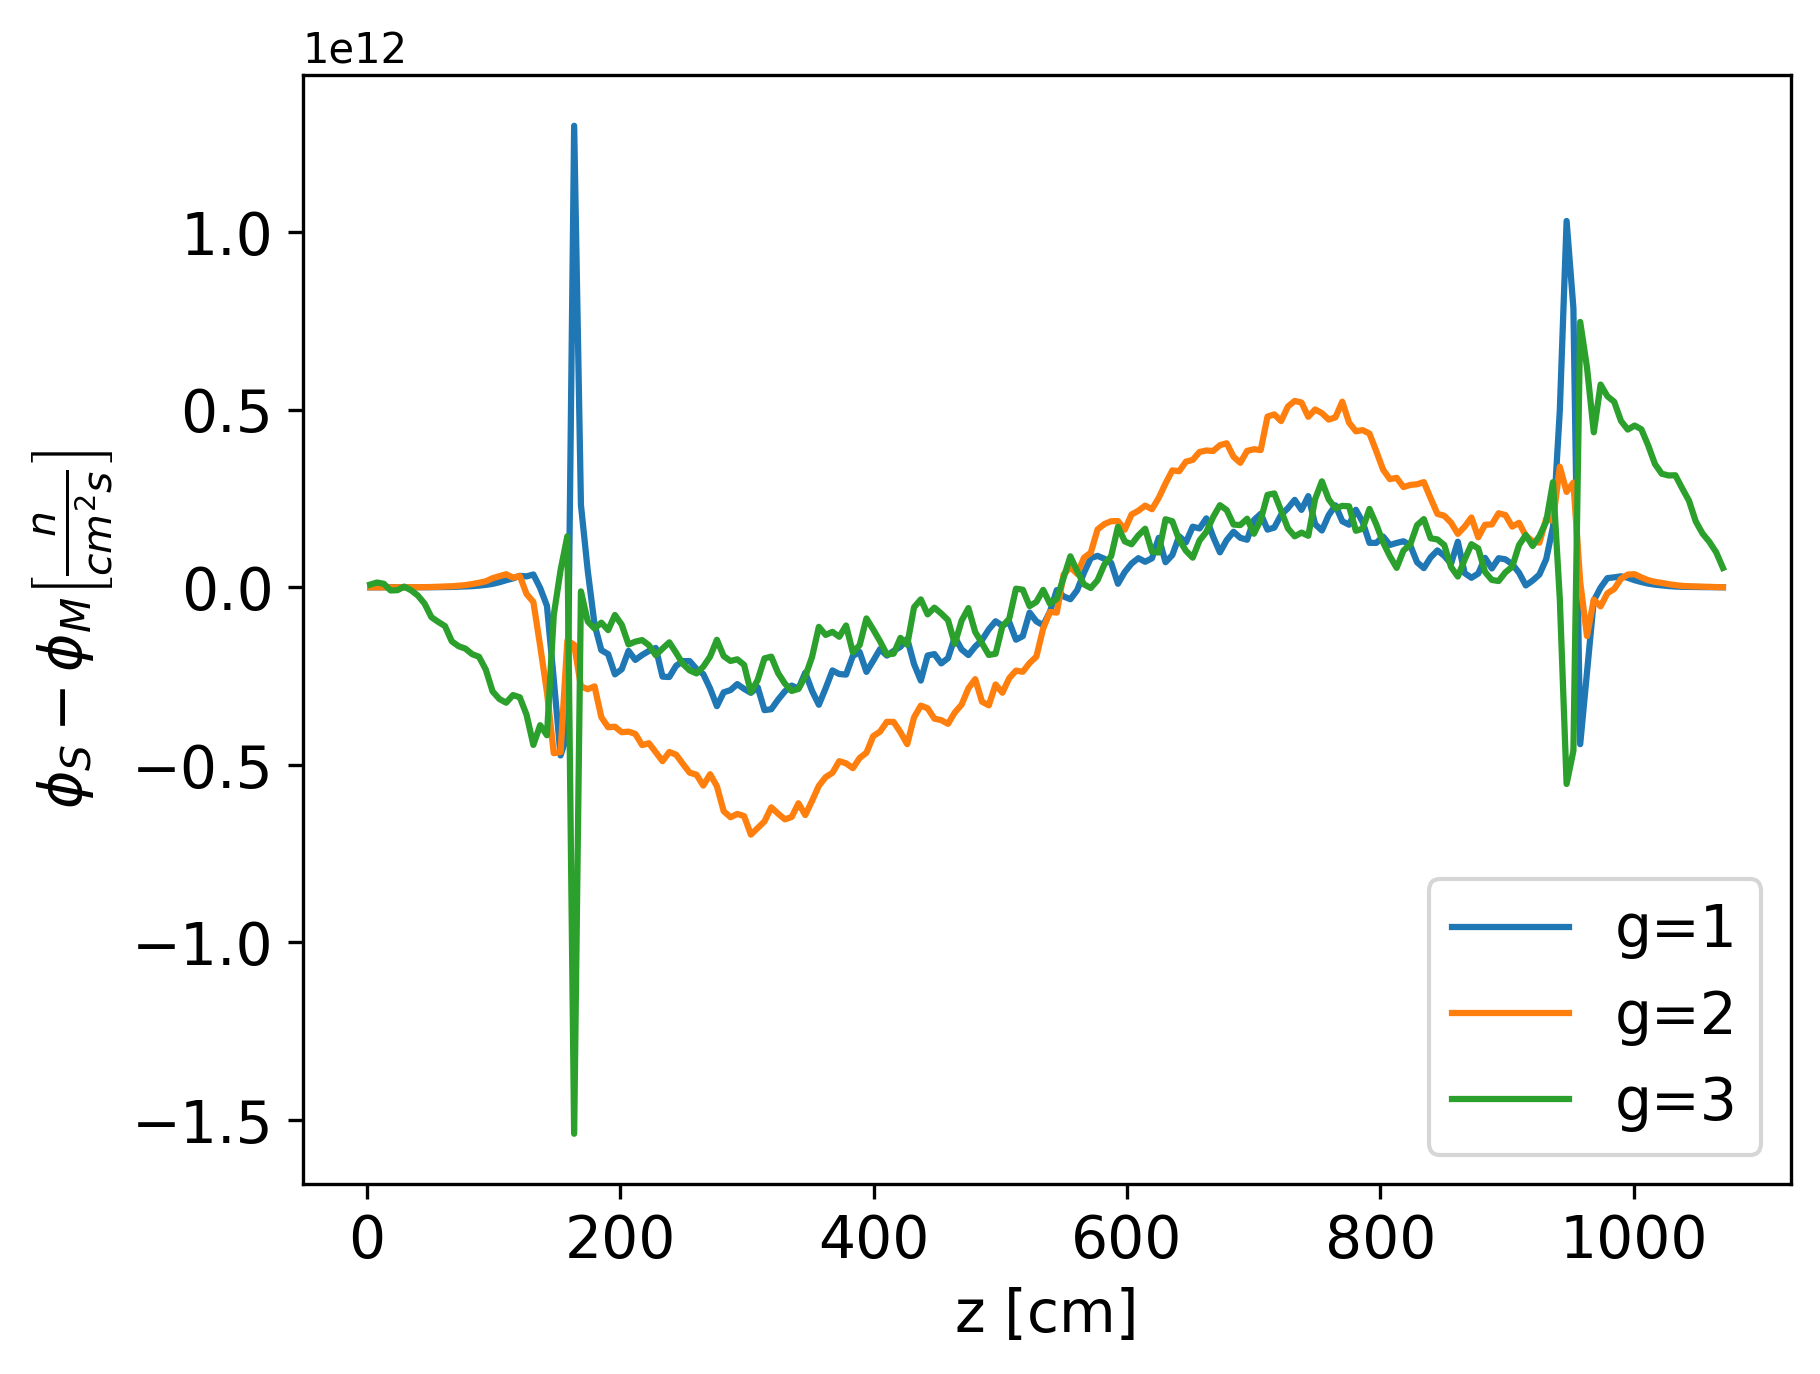
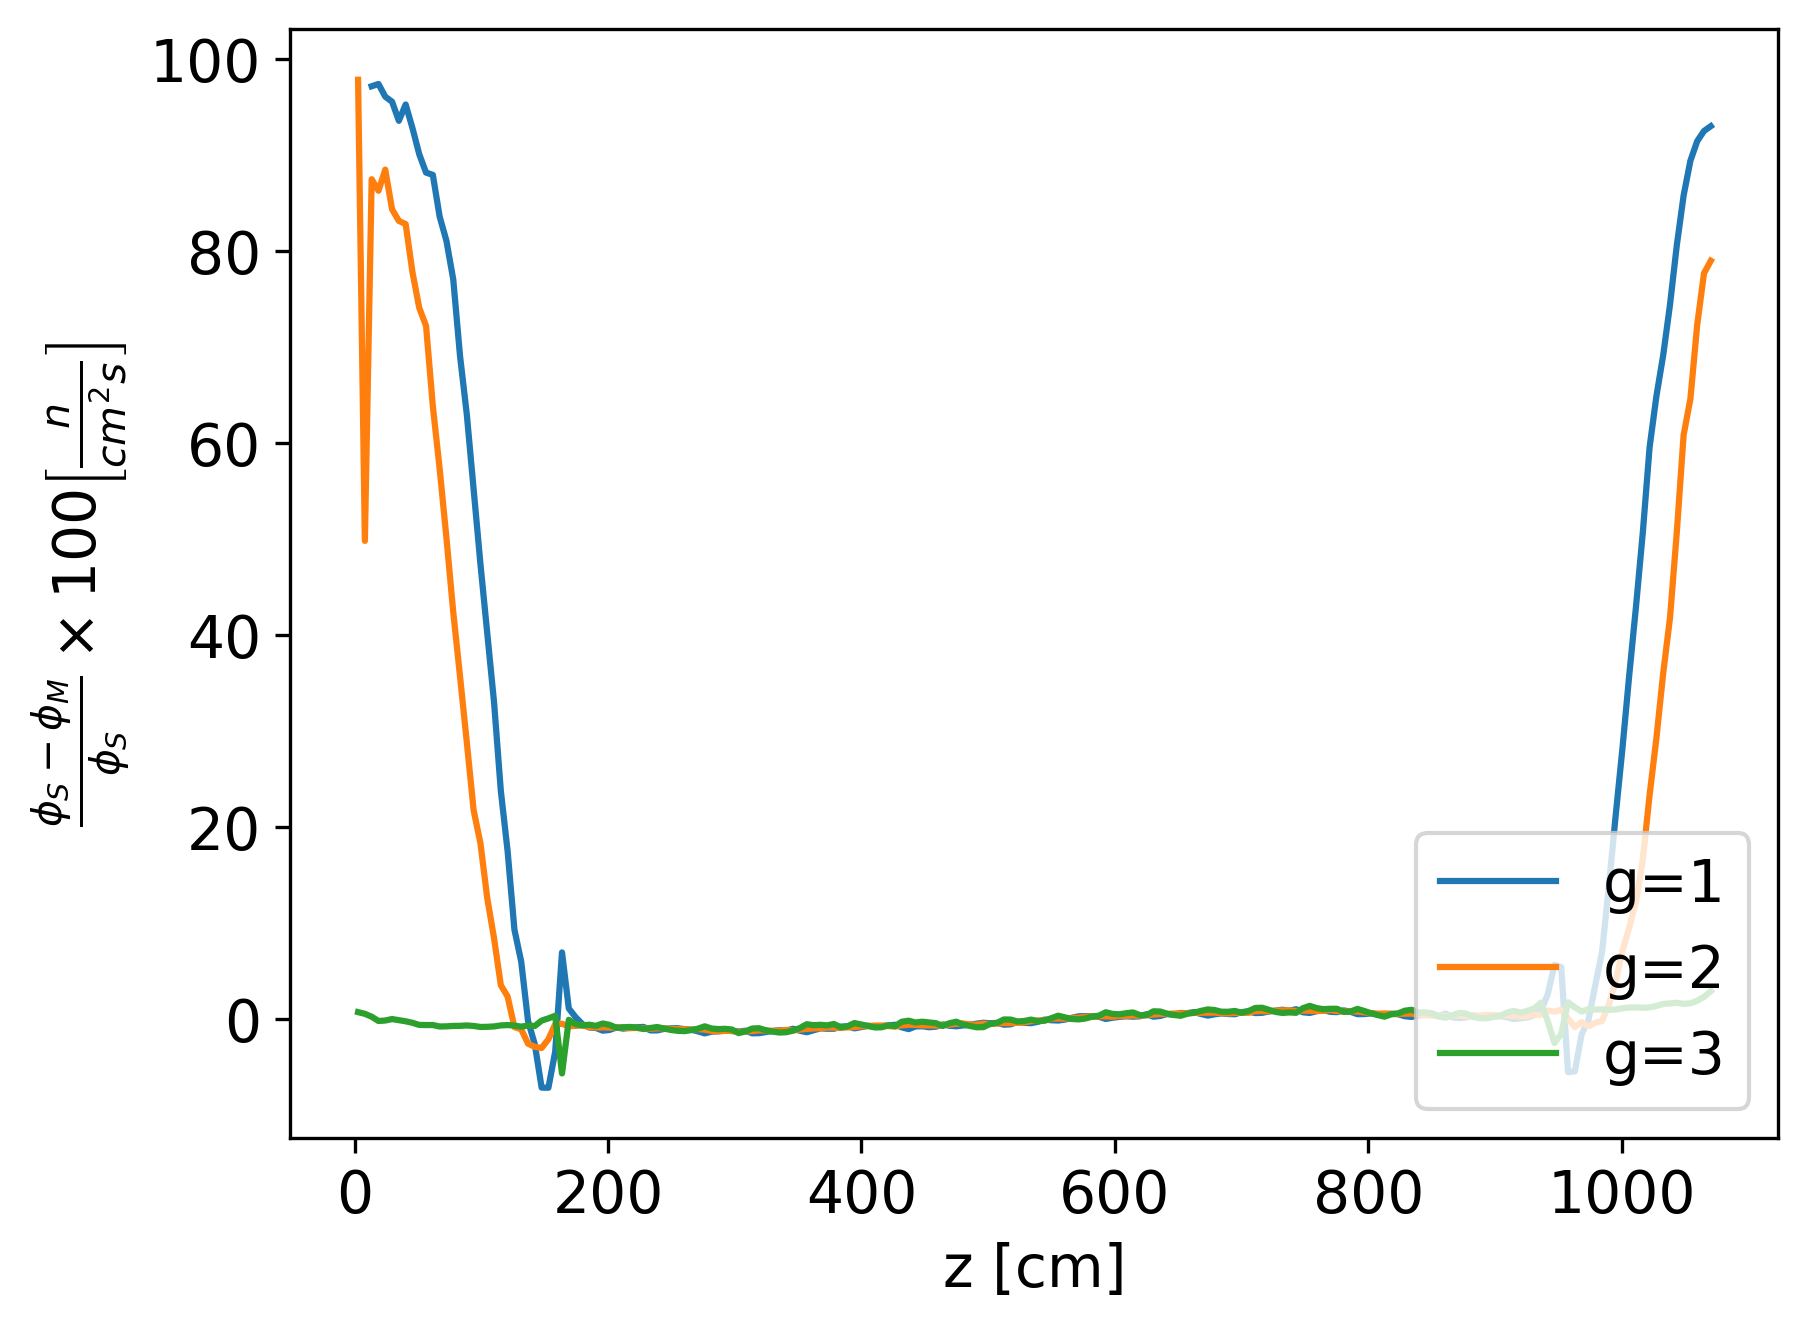
addressed all comments in ch4

diff --git a/neutronics.tex b/neutronics.tex
@@ -274,16 +274,22 @@ To compare the results from Serpent and Moltres, we compare the axial flux.
 Moltres ran the calculations using 26 energy groups.
 The results present the axial fluxes collapsed into three energy groups to facilitate the results' visualization.
 Figures \ref{fig:assembly-noLBP-600-flux} to \ref{fig:assembly-LBP-1200-flux} display the axial flux from the Serpent and the Moltres simulations for all cases.
-The figures also display the difference between Serpent and Moltres results, where $\phi_S$ and $\phi_M$ correspond to Serpent-calculated and Moltres-calculated fluxes.
-The analysis uses the absolute difference instead of the relative difference because the large errors in the reflector hinder the visualization of the errors in the active core.
+The figures also display the relative difference between Serpent and Moltres results calculated as follows
+\begin{align}
+  & \Delta = \frac{\phi_S-\phi_M}{\phi_S} \cdot 100  \label{eq:rel-error-flux}
+  \intertext{where}
+  & \Delta = \mbox{relative difference } [\%] \notag \\
+  & \phi_S = \mbox{Serpent-calculated flux } [n \cdot cm^{-2} \cdot s^{-1}] \notag \\
+  & \phi_M = \mbox{Moltres-calculated flux } [n \cdot cm^{-2} \cdot s^{-1}]. \notag
+\end{align}
 
-% left here: analysis
-For all the operational cases, the fluxes from Serpent and Moltres are close in shape and magnitude.
-For operational case 1, the largest error is 1.54 $\times 10^{12}$, located at the interface between the bottom reflector and the homogeneous fuel.
-For the operational case 2, 3, and 4, the largest error is 3.81 $\times 10^{12}$, 8.49 $\times 10^{12}$, and 1.52 $\times 10^{13}$, respectively.
-The largest error for cases 2, 3, and 4 occurs in the bottom reflector close to the homogeneous fuel interface.
-In all the operational cases, the largest errors occur for the thermal flux.
-This behavior is expected, as the diffusion theory assumptions are weaker at interfaces between different materials.
+For all the operational cases, the fluxes from Serpent and Moltres look close in shape and magnitude.
+For the operational case 1, 2, 3, and 4, the largest error is 98\%, 167\%, 99\%, and 1720\%, respectively.
+The largest error occurs at the bottom reflector boundary.
+This behavior is expected, as the diffusion theory assumptions are weaker at boundaries.
+Another spot where the diffusion theory assumptions are weaker is the interface between materials.
+At the interfaces between the active core and reflectors, the largest error is 7\%, 8\%, 4\%, and 6\% for the operational case 1, 2, 3, and 4.
+Focusing on the active core region only, the largest error is 1\%, 3\%, 4\%, and 6\% for the operational case 1, 2, 3, and 4.
 
 % No LBP 600
 \begin{figure}[htbp!]
@@ -291,7 +297,7 @@ This behavior is expected, as the diffusion theory assumptions are weaker at int
     \subfloat[Serpent and Moltres neutron fluxes.]{
         \includegraphics[width=0.51\textwidth]{figures-neutronics/serpent-moltres-noLBP-600-fluxes}
     }
-    \subfloat[Difference between Serpent and Moltres neutron fluxes.]{
+    \subfloat[Relative difference between Serpent and Moltres neutron fluxes.]{
         \includegraphics[width=0.39\textwidth]{figures-neutronics/serpent-moltres-noLBP-600-error}
     }
 	\hfill
@@ -305,7 +311,7 @@ This behavior is expected, as the diffusion theory assumptions are weaker at int
     \subfloat[Serpent and Moltres neutron fluxes.]{
         \includegraphics[width=0.51\textwidth]{figures-neutronics/serpent-moltres-noLBP-1200-fluxes}
     }
-    \subfloat[Difference between Serpent and Moltres neutron fluxes.]{
+    \subfloat[Relative difference between Serpent and Moltres neutron fluxes.]{
         \includegraphics[width=0.39\textwidth]{figures-neutronics/serpent-moltres-noLBP-1200-error}
     }
   \hfill
@@ -319,7 +325,7 @@ This behavior is expected, as the diffusion theory assumptions are weaker at int
     \subfloat[Serpent and Moltres neutron fluxes.]{
         \includegraphics[width=0.51\textwidth]{figures-neutronics/serpent-moltres-LBP-600-fluxes}
     }
-    \subfloat[Difference between Serpent and Moltres neutron fluxes.]{
+    \subfloat[Relative difference between Serpent and Moltres neutron fluxes.]{
         \includegraphics[width=0.39\textwidth]{figures-neutronics/serpent-moltres-LBP-600-error}
     }
   \hfill
@@ -333,7 +339,7 @@ This behavior is expected, as the diffusion theory assumptions are weaker at int
     \subfloat[Serpent and Moltres neutron fluxes.]{
         \includegraphics[width=0.51\textwidth]{figures-neutronics/serpent-moltres-LBP-1200-fluxes}
     }
-    \subfloat[Difference between Serpent and Moltres neutron fluxes.]{
+    \subfloat[Relative difference between Serpent and Moltres neutron fluxes.]{
         \includegraphics[width=0.39\textwidth]{figures-neutronics/serpent-moltres-LBP-1200-error}
     }
   \hfill
@@ -583,110 +589,54 @@ Both the Serpent and Moltres radial detector's axial location was the middle of 
 	\label{fig:fullcore-detectors}
 \end{figure}
 
-The following analysis compares the flux calculated by Serpent and Moltres.
-Section \ref{sec:neut-fuelcol} analysis was able to study the difference between Serpent and Moltres' results because the fuel column problem uses reflective boundary conditions, making the radial profile relatively flat.
-% Consequently, Serpent flux exhibits a relatively flat radial profile, and Moltres exhibits a flat radial profile.
-Given a flat radial profile, Moltres axial flux is independent of the location of the detector.
-In the full core problem, the radial profile is far from being flat, making Moltres axial flux sensitive to the detector's location.
-For this reason, the fluxes comparison remains qualitative.
+% The following analysis compares the flux calculated by Serpent and Moltres.
+% Section \ref{sec:neut-fuelcol} analysis was able to study the difference between Serpent and Moltres' results because the fuel column problem uses reflective boundary conditions, making the radial profile relatively flat.
+% % Consequently, Serpent flux exhibits a relatively flat radial profile, and Moltres exhibits a flat radial profile.
+% Given a flat radial profile, Moltres axial flux is independent of the location of the detector.
+% In the full core problem, the radial profile is far from being flat, making Moltres axial flux sensitive to the detector's location.
+% For this reason, the fluxes comparison remains qualitative.
 
-% axial flux
-Moltres simulations used 15 energy groups, and a Python script collapsed the results into three groups to facilitate the results' visualization.
-Figure \ref{fig:fullcore-600-flux} shows the axial and radial fluxes at 600K.
-The fast and epithermal fluxes in Moltres results are larger than Serpent's, while the axial thermal flux is smaller.
-% radial flux
-Serpent's radial flux present some 'noise.'
-A higher number of generations per cycle in Serpent simulations or using a detector with a larger volume would eliminate this.
-Additionally, the radial flux in Serpent reveals the location of the burnable poisons in the fuel assemblies.
-This diffusion simulation fails to capture such localized effects as the group constants are homogeneous in the fuel assembly.
-The fast radial flux in Moltres results is larger than Serpent's, while the radial epithermal and thermal fluxes have almost the same magnitudes.
-Figure \ref{fig:fullcore-1200-flux} display the fluxes at 1200K, which differ from the 600K case.
-Still, the 1200K case exhibits the same behavior for both axial and radial fluxes.
-Overall, Moltres and Serpent fluxes are comparable in magnitude and shape.
+% % axial flux
+% Moltres simulations used 15 energy groups, and a Python script collapsed the results into three groups to facilitate the results' visualization.
+% Figure \ref{fig:fullcore-600-flux} shows the axial and radial fluxes at 600K.
+% The fast and epithermal fluxes in Moltres results are larger than Serpent's, while the axial thermal flux is smaller.
+% % radial flux
+% Serpent's radial flux present some 'noise.'
+% A higher number of generations per cycle in Serpent simulations or using a detector with a larger volume would eliminate this.
+% Additionally, the radial flux in Serpent reveals the location of the burnable poisons in the fuel assemblies.
+% This diffusion simulation fails to capture such localized effects as the group constants are homogeneous in the fuel assembly.
+% The fast radial flux in Moltres results is larger than Serpent's, while the radial epithermal and thermal fluxes have almost the same magnitudes.
+% Figure \ref{fig:fullcore-1200-flux} display the fluxes at 1200K, which differ from the 600K case.
+% Still, the 1200K case exhibits the same behavior for both axial and radial fluxes.
+% Overall, Moltres and Serpent fluxes are comparable in magnitude and shape.
 
-% % Axial flux1 at 600K
+% % Flux at 600K
 % \begin{figure}[htbp!]
-% 	\centering
-%     \subfloat[Serpent axial detector flux.]{
-%         \includegraphics[width=0.45\textwidth]{figures-neutronics/serpent26G-600-collapse-Axial1}
+%   \centering
+%     \subfloat[Comparison of the axial flux.]{
+%         \includegraphics[width=0.45\textwidth]{figures-neutronics/serpent-moltres-axial-600}
 %     }
-%     \subfloat[Moltres axial detector flux.]{
-%         \includegraphics[width=0.45\textwidth]{figures-neutronics/3D-fullcore-600-15Gd-axial1}
+%     \subfloat[Comparison of the radial flux.]{
+%         \includegraphics[width=0.45\textwidth]{figures-neutronics/serpent-moltres-radial-600}
 %     }
-% 	\hfill
-% 	\caption{Comparison of the axial detector flux calculated by Serpent and Moltres at 600 K.}
-% 	\label{fig:fullcore-600-axial1}
+%   \hfill
+%   \caption{Comparison of the axial and radial fluxes calculated by Serpent and Moltres at 600 K.}
+%   \label{fig:fullcore-600-flux}
 % \end{figure}
 
-% %Radial flux at 600 K
+% % Flux at 1200 K
 % \begin{figure}[htbp!]
-% 	\centering
-%     \subfloat[Serpent radial detector flux.]{
-%         \includegraphics[width=0.45\textwidth]{figures-neutronics/serpent26G-600-collapse-Radial}
+%   \centering
+%     \subfloat[Comparison of the axial flux.]{
+%         \includegraphics[width=0.45\textwidth]{figures-neutronics/serpent-moltres-axial-1200}
 %     }
-%     \subfloat[Moltres radial detector flux.]{
-%         \includegraphics[width=0.45\textwidth]{figures-neutronics/3D-fullcore-600-15Gd-radial1}
+%     \subfloat[Comparison of the radial flux.]{
+%         \includegraphics[width=0.45\textwidth]{figures-neutronics/serpent-moltres-radial-1200}
 %     }
-% 	\hfill
-% 	\caption{Comparison of the radial detector flux calculated by Serpent and Moltres at 600 K.}
-% 	\label{fig:fullcore-600-radial1}
+%   \hfill
+%   \caption{Comparison of the axial and radial fluxes calculated by Serpent and Moltres at 1200 K.}
+%   \label{fig:fullcore-1200-flux}
 % \end{figure}
-
-% % Axial flux1 at 1200K
-% \begin{figure}[htbp!]
-% 	\centering
-%     \subfloat[Serpent axial detector flux.]{
-%         \includegraphics[width=0.45\textwidth]{figures-neutronics/serpent26G-1200-collapse-Axial1}
-%     }
-%     \subfloat[Moltres axial detector flux.]{
-%         \includegraphics[width=0.45\textwidth]{figures-neutronics/3D-fullcore-1200-15Gc-axial1}
-%     }
-% 	\hfill
-% 	\caption{Comparison of the axial detector flux calculated by Serpent and Moltres at 1200 K.}
-% 	\label{fig:fullcore-1200-axial1}
-% \end{figure}
-
-% %Radial flux at 1200 K
-% \begin{figure}[htbp!]
-% 	\centering
-%     \subfloat[Serpent radial detector flux.]{
-%         \includegraphics[width=0.45\textwidth]{figures-neutronics/serpent26G-1200-collapse-Radial}
-%     }
-%     \subfloat[Moltres radial detector flux.]{
-%         \includegraphics[width=0.45\textwidth]{figures-neutronics/3D-fullcore-1200-15Gc-radial1}
-%     }
-% 	\hfill
-% 	\caption{Comparison of the radial detector flux calculated by Serpent and Moltres at 1200 K.}
-% 	\label{fig:fullcore-1200-radial1}
-% \end{figure}
-
-% Flux at 600K
-\begin{figure}[htbp!]
-  \centering
-    \subfloat[Comparison of the axial flux.]{
-        \includegraphics[width=0.45\textwidth]{figures-neutronics/serpent-moltres-axial-600}
-    }
-    \subfloat[Comparison of the radial flux.]{
-        \includegraphics[width=0.45\textwidth]{figures-neutronics/serpent-moltres-radial-600}
-    }
-  \hfill
-  \caption{Comparison of the axial and radial fluxes calculated by Serpent and Moltres at 600 K.}
-  \label{fig:fullcore-600-flux}
-\end{figure}
-
-% Flux at 1200 K
-\begin{figure}[htbp!]
-  \centering
-    \subfloat[Comparison of the axial flux.]{
-        \includegraphics[width=0.45\textwidth]{figures-neutronics/serpent-moltres-axial-1200}
-    }
-    \subfloat[Comparison of the radial flux.]{
-        \includegraphics[width=0.45\textwidth]{figures-neutronics/serpent-moltres-radial-1200}
-    }
-  \hfill
-  \caption{Comparison of the axial and radial fluxes calculated by Serpent and Moltres at 1200 K.}
-  \label{fig:fullcore-1200-flux}
-\end{figure}
 
 
 \section{OECD/NEA MHTGR-350 Benchmark: Phase I Exercise 1}
@@ -880,10 +830,10 @@ The analysis concluded that the $15d$ energy group structure was the best-perfor
 Section \ref{sec:neut-fullcore} compared Moltres full-core model results to Serpent reference results for two operational temperatures: 600K and 1200K.
 The first analysis compared the eigenvalues calculated by Serpent and Moltres --- Moltres results were bigger, but the overall differences were less than 300 pcm.
 The second analysis compared the radial power distributions from both applications, whose maximum relative difference was less than 7\% and located in the middle ring.
-The last analysis of the section compared Moltres and Serpent fluxes in two arbitrary core regions.
-The axial fluxes showed small discrepancies, mostly in their magnitude.
-The radial fluxes were close in shape and magnitude; however, the radial flux in the diffusion calculation failed to capture the flux variation near the burnable poisons.
-For the most part, Moltres axial and radial fluxes showed proximity to the Serpent’s results.
+% The last analysis of the section compared Moltres and Serpent fluxes in two arbitrary core regions.
+% The axial fluxes showed small discrepancies, mostly in their magnitude.
+% The radial fluxes were close in shape and magnitude; however, the radial flux in the diffusion calculation failed to capture the flux variation near the burnable poisons.
+% For the most part, Moltres axial and radial fluxes showed proximity to the Serpent’s results.
 
 % OECD-Benchmark
 Section \ref{sec:ph1e1} describes the results of Phase I Exercise 1 of the OECD/NEA MHTGR-350 Benchmark using Moltres.
